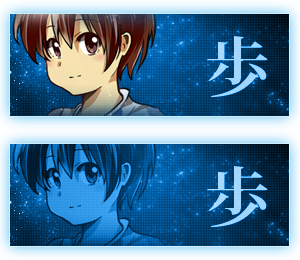
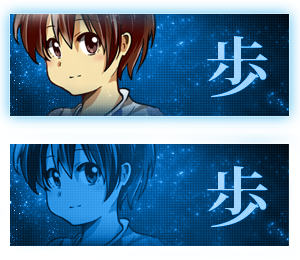
変更分の適用

Changed region(s): [[0.0, 0.5231, 0.99, 0.9846]]

diff --git a/index.html b/index.html
@@ -3,8 +3,7 @@
         <meta charset="utf-8">
         <meta http-equiv="X-UA-Compatible" content="IE=edge,chrome=1">
         <title>Leap 〜ときをこえて〜</title>
-        <meta name="description" content="ゲーム,サウンドノベル,iOS,iPhone,スマートフォンアプリ,同人">
-        <meta name="viewport" content="width=device-width, initial-scale=1">
+        <meta name="description" content="ゲーム,サウンドノベル,iOS,iPhone,スマートフォンアプリ,同人ゲーム,あおひげ">
 
         <meta name="robots" content="nofollow,noindex">
         <meta name="robots" content="none">
@@ -40,50 +39,10 @@
                     <div id="news">
                         <div class="news_block">
                             <div class="news_date">
-                                2014年00月00日
+                                2014年09月01日
                             </div>
                             <div class="news_contents">
-                                開発ブログ更新しました。
-                            </div>
-                            <div class="clear"></div>
-                        </div>
-
-                        <div class="news_block">
-                            <div class="news_date">
-                                2014年00月00日
-                            </div>
-                            <div class="news_contents">
-                                開発ブログ更新しました。
-                            </div>
-                            <div class="clear"></div>
-                        </div>
-
-                        <div class="news_block">
-                            <div class="news_date">
-                                2014年00月00日
-                            </div>
-                            <div class="news_contents">
-                                開発ブログ更新しました。
-                            </div>
-                            <div class="clear"></div>
-                        </div>
-
-                        <div class="news_block">
-                            <div class="news_date">
-                                2014年00月00日
-                            </div>
-                            <div class="news_contents">
-                                開発ブログ更新しました。
-                            </div>
-                            <div class="clear"></div>
-                        </div>
-
-                        <div class="news_block">
-                            <div class="news_date">
-                                2014年00月00日
-                            </div>
-                            <div class="news_contents">
-                                開発ブログ更新しました。
+                                サイトオープンしました
                             </div>
                             <div class="clear"></div>
                         </div>
@@ -92,31 +51,31 @@
                     <ul id="menu">
                         <li>
                             <a id="story_btn" href="javascript:smoothScroll('story');">
-                                ストーリー紹介
+                                ストーリー
                             </a>
                         </li>
 
                         <li>
-                            <a id="story_btn" href="javascript:smoothScroll('character');">
-                                ストーリー紹介
+                            <a id="character_btn" href="javascript:smoothScroll('character');">
+                                キャラクター
                             </a>
                         </li>
 
                         <li>
-                            <a id="story_btn" href="javascript:smoothScroll('capture');">
-                                ストーリー紹介
+                            <a id="sc_btn" href="javascript:smoothScroll('capture');">
+                                スクリーンショット
                             </a>
                         </li>
 
                         <li>
-                            <a id="story_btn" href="http://circle-aohige.tumblr.com/" target="_blank">
-                                ストーリー紹介
+                            <a id="blog_btn" href="http://circle-aohige.tumblr.com/" target="_blank">
+                                開発ブログ
                             </a>
                         </li>
 
                         <li>
                             <a id="story_btn" href="mailto:aohige.me@gmail.com?subject=Leapに関するお問い合わせ">
-                                ストーリー紹介
+                                問い合わせ
                             </a>
                         </li>
                     </ul>
@@ -164,12 +123,12 @@
             <!-- キャラクター -->
             <div id="character" class="inline">
                 <h3>
-                    <img src="./img/character_caption.png" alt="歩">
+                    <img src="./img/character_caption.png" alt="キャラクター">
                 </h3>
                 <div class="character_box">
                     <img id="teru-img" src="./img/aruku_info.png" alt="照">
                     <img id="aruku-img" src="./img/aruku_info.png" alt="歩">
-                    <img id="mary-img" src="./img/aruku_info.png" alt="マリー">
+                    <img id="mary-img" src="./img/mary_info.png" alt="マリー">
                 </div>
                 <div class="character_footer">
                     <div id="teru" class="character_btn img-active">
@@ -200,61 +159,43 @@
                 <div id="grid_block">
                     <div class="column_block">
                         <div class="sc_image">
-                            <a href="./img/sc_placeholder.png" class="fancybox">
-                                <img src="./img/sc_placeholder.png" alt="coming soon...">
-                            </a>
+                            <img src="./img/sc_placeholder.png" alt="coming soon...">
                         </div>
 
                         <div class="sc_image centering">
-                            <a href="./img/sc_placeholder.png" class="fancybox">
-                                <img src="./img/sc_placeholder.png" alt="coming soon...">
-                            </a>
+                            <img src="./img/sc_placeholder.png" alt="coming soon...">
                         </div>
 
                         <div class="sc_image">
-                            <a href="./img/sc_placeholder.png" class="fancybox">
-                                <img src="./img/sc_placeholder.png" alt="coming soon...">
-                            </a>
+                            <img src="./img/sc_placeholder.png" alt="coming soon...">
                         </div>
                     </div>
 
                     <div class="column_block">
                         <div class="sc_image">
-                            <a href="./img/sc_placeholder.png" class="fancybox">
-                                <img src="./img/sc_placeholder.png" alt="coming soon...">
-                            </a>
+                            <img src="./img/sc_placeholder.png" alt="coming soon...">
                         </div>
 
                         <div class="sc_image centering">
-                            <a href="./img/sc_placeholder.png" class="fancybox">
-                                <img src="./img/sc_placeholder.png" alt="coming soon...">
-                            </a>
+                            <img src="./img/sc_placeholder.png" alt="coming soon...">
                         </div>
 
                         <div class="sc_image">
-                            <a href="./img/sc_placeholder.png" class="fancybox">
-                                <img src="./img/sc_placeholder.png" alt="coming soon...">
-                            </a>
+                            <img src="./img/sc_placeholder.png" alt="coming soon...">
                         </div>
                     </div>
 
                     <div class="column_block">
                         <div class="sc_image">
-                            <a href="./img/sc_placeholder.png" class="fancybox">
-                                <img src="./img/sc_placeholder.png" alt="coming soon...">
-                            </a>
+                             <img src="./img/sc_placeholder.png" alt="coming soon...">
                         </div>
 
                         <div class="sc_image centering">
-                            <a href="./img/sc_placeholder.png" class="fancybox">
-                                <img src="./img/sc_placeholder.png" alt="coming soon...">
-                            </a>
+                            <img src="./img/sc_placeholder.png" alt="coming soon...">
                         </div>
 
                         <div class="sc_image">
-                            <a href="./img/sc_placeholder.png" class="fancybox">
-                                <img src="./img/sc_placeholder.png" alt="coming soon...">
-                            </a>
+                            <img src="./img/sc_placeholder.png" alt="coming soon...">
                         </div>
                     </div>
                 </div>

diff --git a/css/main.css b/css/main.css
@@ -130,12 +130,37 @@ body{
 }
 
 #wrapper #top #side_bar #menu #story_btn{
-	background-image    : url('../img/menu_btn.png');
+	background-image    : url('../img/story_menu_btn.png');
 }
 
 #wrapper #top #side_bar #menu #story_btn:hover{
 	background-position: left bottom;
 }
+
+#wrapper #top #side_bar #menu #character_btn{
+	background-image    : url('../img/character_menu_btn.png');
+}
+
+#wrapper #top #side_bar #menu #character_btn:hover{
+	background-position: left bottom;
+}
+
+#wrapper #top #side_bar #menu #sc_btn{
+	background-image    : url('../img/sc_menu_btn.png');
+}
+
+#wrapper #top #side_bar #menu #sc_btn:hover{
+	background-position: left bottom;
+}
+
+#wrapper #top #side_bar #menu #blog_btn{
+	background-image    : url('../img/blog_menu_btn.png');
+}
+
+#wrapper #top #side_bar #menu #blog_btn:hover{
+	background-position: left bottom;
+}
+
 
 /* アプリ情報 */
 #wrapper #top #side_bar #app_info{
